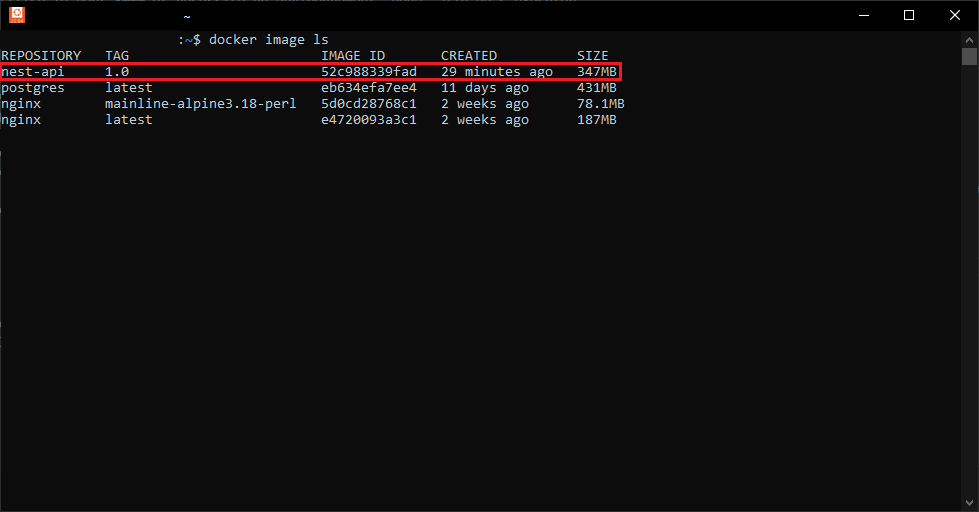
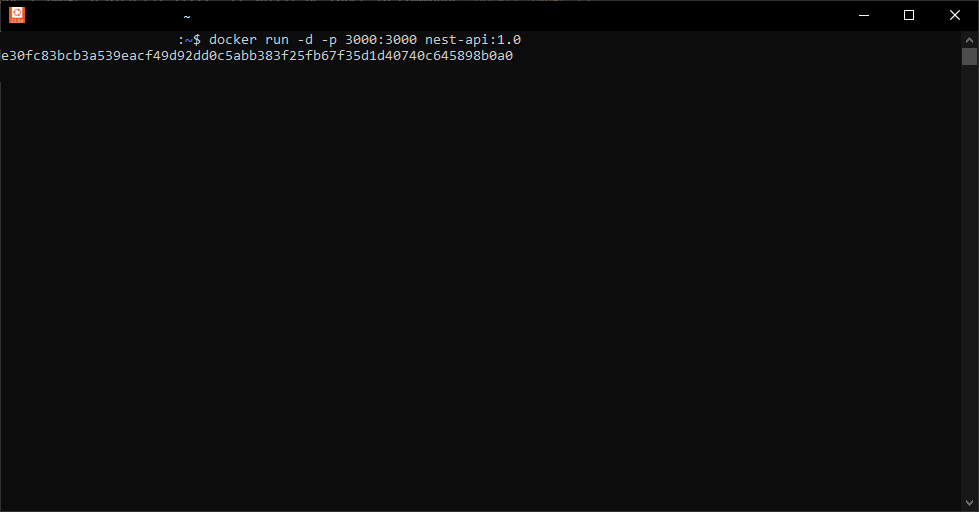
docs: add solution

Changed region(s): [[0.0, 0.0625, 0.6435, 0.25]]

diff --git a/README.md b/README.md
@@ -1,5 +1,7 @@
-# 5. Pour vérifier que l'image a bien été créée.
+# 6. Démarrer l'image nest-api:1.0 dans un conteneur.
 
-Pour vérifier que l'image a bien été créée, il suffit de taper la commande `docker image ls`.
+Pour démarrer un conteneur de l'API, il suffit d'exécuter la commande `docker run`.
 
 ![](./assets/cli.png)
+
+- `-p 3000:3000` : Définit qu'une redirection du port `3000` de l'hôte est effectué vers le port `3000` du conteneur. 
